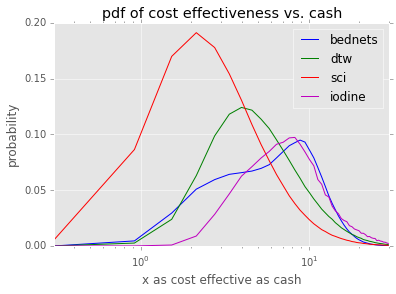
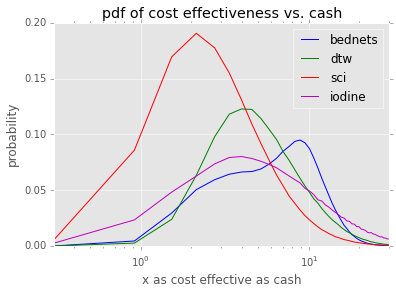
modified parameter assumptions for iodine

diff --git a/ea_params.py b/ea_params.py
@@ -69,14 +69,14 @@ if __name__ == '__main__':
         'Relative value of year of deworming treatment to development benefits from year of bednet coverage':  {'dist': 'array', 'val': [2.0, 1.0, 1.5, 2.0, 1.0, 2.0, 3.0, 2.0, 1.5, 1.0]}, \
         'Alternative funders adjustment': {'dist': 'array', 'val': [0.75, 0.86, 0.85, 0.85, 0.86, 0.86, 0.75, 0.86, 0.86, 0.86]}}
     
-    iodine = {'Cost per person per year': {'dist': 'array', 'val': [0.1, 0.1, 0.08, 0.08]}, \
-        'Replicability': {'dist': 'array', 'val': [0.8, 0.7, 0.9, 0.8]}, \
+    iodine = {'Cost per person per year': {'dist': 'array', 'val': [0.1, 0.1, 0.08, 0.08, 0.08, 0.08, 0.05, 0.05, 0.1, 0.1]}, \
+        'Replicability': {'dist': 'array', 'val': [0.8, 0.7, 0.9, 0.8, 0.8, 0.8, 0.6, 0.6, 0.7, 0.7]}, \
         'External validity': {'dist': 'array', 'val': [0.7, 0.7, 0.7, 0.7]}, \
-        'Leverage (dollars of impact per dollars spent)': {'dist': 'array', 'val': [1.0, 1.0, 2.0, 1.0]}, \
-        '% of benefit of iodine that lasts for the long term': {'dist': 'array', 'val': [0.8, 0.8, 0.8, 0.8]}, \
-        'Probability that GAIN/ICCIDD has an impact': {'dist': 'array', 'val': [0.5, 0.25, 0.5, 0.5]}, \
-        '% of children that benefit': {'dist': 'array', 'val': [0.8, 0.8, 0.8, 1.0]}, \
-        'Equivalent increase in wages from having iodine throughout childhood': {'dist': 'array', 'val': [0.036, 0.036, 0.036, 0.036]}, \
+        'Leverage (dollars of impact per dollars spent)': {'dist': 'array', 'val': [1.0, 1.0, 2.0, 1.0, 1.0, 1.0, 1.0, 2.0, 2.0, 2.0]}, \
+        '% of benefit of iodine that lasts for the long term': {'dist': 'array', 'val': [0.8, 0.8, 0.8, 0.8, 0.8, 0.8, 1.0, 1.0, 0.4, 0.4]}, \
+        'Probability that GAIN/ICCIDD has an impact': {'dist': 'array', 'val': [0.5, 0.25, 0.5, 0.5, 0.5, 0.5, 0.75, 0.75, 0.25, 0.25]}, \
+        '% of children that benefit': {'dist': 'array', 'val': [0.8, 0.8, 0.8, 1.0, 0.8, 0.8, 1.0, 1.0, 0.332, 0.332]}, \
+        'Equivalent increase in wages from having iodine throughout childhood': {'dist': 'array', 'val': [0.036, 0.036, 0.036, 0.036, 0.036, 0.036, 0.027, 0.027, 0.054, 0.054]}, \
         'Years of Childhood (for iodine)': {'dist': 'const', 'val': 15.0}, \
         'Percent of population under 15': {'dist': 'const', 'val': 0.431}}
     

diff --git a/ea_test.py b/ea_test.py
@@ -144,12 +144,12 @@ if __name__ == '__main__':
     cash['Cash flow from investment return'] = \
         cash['Initial balance']*inputs['Cash']['ROI of cash transfers']
     cash['Sum of benefits from year 1 onward'] = \
-        ((1.0 - np.power((1.0 + inputs['Shared']['Discount rate']), -(inputs['Cash']['Duration of benefits in years'] - 1.0)))/ \
+        ((1.0 - np.power((1.0 + inputs['Shared']['Discount rate']), -(inputs['Cash']['Duration of benefits of cash transfers (years)'] - 1.0)))/ \
         inputs['Shared']['Discount rate'])*(np.log(cash['Cash flow from investment return'] + cash['Control group per capita annual consumption, USD']) - \
         np.log(cash['Control group per capita annual consumption, USD'])) + \
         (np.log((cash['Initial balance'] + cash['Cash flow from investment return']) + \
         cash['Control group per capita annual consumption, USD']) - np.log(cash['Control group per capita annual consumption, USD']))* \
-        (np.power((1.0 + inputs['Shared']['Discount rate']), -inputs['Cash']['Duration of benefits in years']))
+        (np.power((1.0 + inputs['Shared']['Discount rate']), -inputs['Cash']['Duration of benefits of cash transfers (years)']))
     cash['Present value of the sum of future benefits from cash transfers (ln income)'] = \
         cash['Sum of benefits from year 1 onward']
     cash['Increase in current consumption from spending the transfer (Ln(income))'] = \
